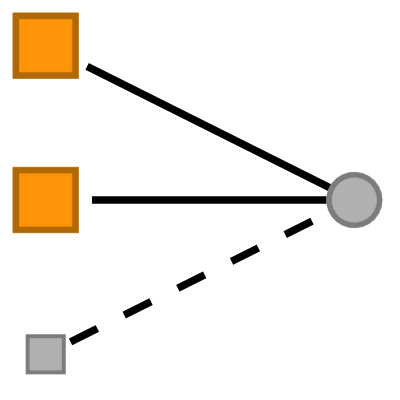
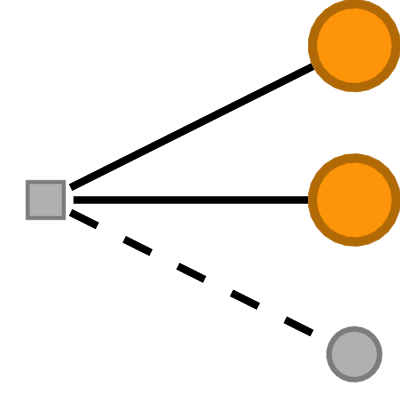
Fix b1/b2nodematch swap and gwb*dsp math
Verified every term's math against the ergm manual and literature
(Hunter 2007 for the gw* terms; Bomiriya et al. 2014 for b*nodematch),
plus a numeric check of each formula against summary() statistics on
small test networks. Two errors found, both pre-existing:

- b1nodematch and b2nodematch had their math and drawings swapped:
  ergm's b1nodematch is the homophily-based two-star statistic for
  first-mode nodes (matched B1 pairs sharing a B2 partner), but the
  file showed matched B2 pairs, and vice versa.
- gwb1dsp/gwb2dsp used an undefined exponent m; the geometric weight
  exponent is the summation index i (Hunter 2007). Upper limits now
  reflect the bipartite maximum shared-partner counts.

diff --git a/README.md b/README.md
@@ -128,12 +128,12 @@ tabulergm_table(dictionary_terms, format = "markdown")
 | cyclicalties | <img src="man/figures/README-cyclicalties.png" width="80" /> | $\sum_{i \neq j} y_{ij} \mathbf{1}\left(\exists k : y_{jk} y_{ki} = 1\right)$ | Cyclical ties |
 | nodeicov | <img src="man/figures/README-nodeicov.png" width="80" /> | $\sum_{i \neq j} y_{ij} x_j$ | Main effect of a covariate for in-edges |
 | nodeocov | <img src="man/figures/README-nodeocov.png" width="80" /> | $\sum_{i \neq j} y_{ij} x_i$ | Main effect of a covariate for out-edges |
-| gwb1dsp | <img src="man/figures/README-gwb1dsp.png" width="80" /> | $\exp{(\tau)} \sum_{i=1}^{n-2} \left[1 - \left(1 - \exp{(-\tau)}\right)^m\right] DP_i(y)$ | Geometrically weighted dyadwise shared partner distribution for dyads in the first bipartition |
-| gwb2dsp | <img src="man/figures/README-gwb2dsp.png" width="80" /> | $\exp{(\tau)} \sum_{i=1}^{n-2} \left[1 - \left(1 - \exp{(-\tau)}\right)^m\right] DP_i(y)$ | Geometrically weighted dyadwise shared partner distribution for dyads in the second bipartition |
+| gwb1dsp | <img src="man/figures/README-gwb1dsp.png" width="80" /> | $\exp{(\tau)} \sum_{i=1}^{n_{B_2}} \left[1 - \left(1 - \exp{(-\tau)}\right)^i\right] DP_i(y)$ | Geometrically weighted dyadwise shared partner distribution for dyads in the first bipartition |
+| gwb2dsp | <img src="man/figures/README-gwb2dsp.png" width="80" /> | $\exp{(\tau)} \sum_{i=1}^{n_{B_1}} \left[1 - \left(1 - \exp{(-\tau)}\right)^i\right] DP_i(y)$ | Geometrically weighted dyadwise shared partner distribution for dyads in the second bipartition |
 | b1factor | <img src="man/figures/README-b1factor.png" width="80" /> | $\sum_{i \in B_1} \sum_{j \in B_2} y_{ij} \mathbf{1}(x_i = k)$ | Factor attribute effect for the first mode in a bipartite network |
 | b2factor | <img src="man/figures/README-b2factor.png" width="80" /> | $\sum_{i \in B_1} \sum_{j \in B_2} y_{ij} \mathbf{1}(x_j = k)$ | Factor attribute effect for the second mode in a bipartite network |
-| b1nodematch | <img src="man/figures/README-b1nodematch.png" width="80" /> | $\sum_{k\in B_1} \sum_{i<j \in B_2} \mathbf{1}(x_i = x_j) y_{ik} y_{jk}$ | Nodal attribute-based homophily effect for the first mode in a bipartite network |
-| b2nodematch | <img src="man/figures/README-b2nodematch.png" width="80" /> | $\sum_{k\in B_2} \sum_{i<j \in B_1} \mathbf{1}(x_i = x_j) y_{ik} y_{jk}$ | Nodal attribute-based homophily effect for the second mode in a bipartite network |
+| b1nodematch | <img src="man/figures/README-b1nodematch.png" width="80" /> | $\sum_{k\in B_2} \sum_{i<j \in B_1} \mathbf{1}(x_i = x_j) y_{ik} y_{jk}$ | Nodal attribute-based homophily effect for the first mode in a bipartite network |
+| b2nodematch | <img src="man/figures/README-b2nodematch.png" width="80" /> | $\sum_{k\in B_1} \sum_{i<j \in B_2} \mathbf{1}(x_i = x_j) y_{ik} y_{jk}$ | Nodal attribute-based homophily effect for the second mode in a bipartite network |
 | b1starmix | <img src="man/figures/README-b1starmix.png" width="80" /> | $\sum_{i \in B_1} \mathbf{1}(x_i = p) \sum_{j_1 < \cdots < j_k \in B_2} \prod_{l=1}^{k} y_{i j_l} \mathbf{1}(x_{j_l} = q)$ | Mixing matrix for k-stars centered on the first mode of a bipartite network |
 | b2starmix | <img src="man/figures/README-b2starmix.png" width="80" /> | $\sum_{j \in B_2} \mathbf{1}(x_j = p) \sum_{i_1 < \cdots < i_k \in B_1} \prod_{l=1}^{k} y_{i_l j} \mathbf{1}(x_{i_l} = q)$ | Mixing matrix for k-stars centered on the second mode of a bipartite network |
 